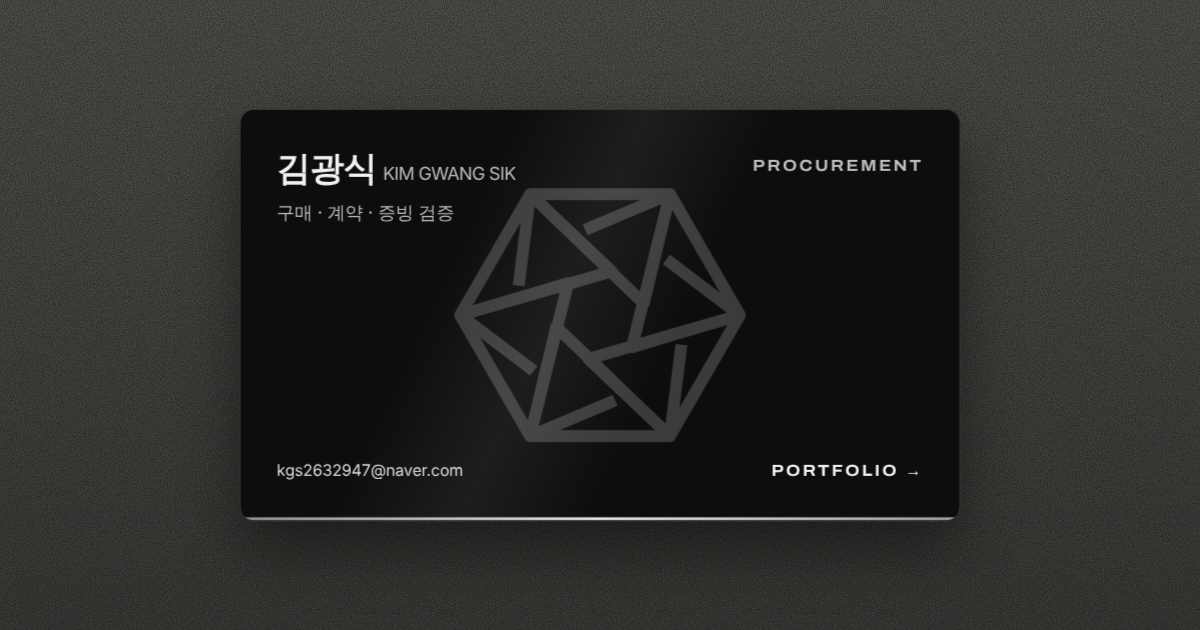
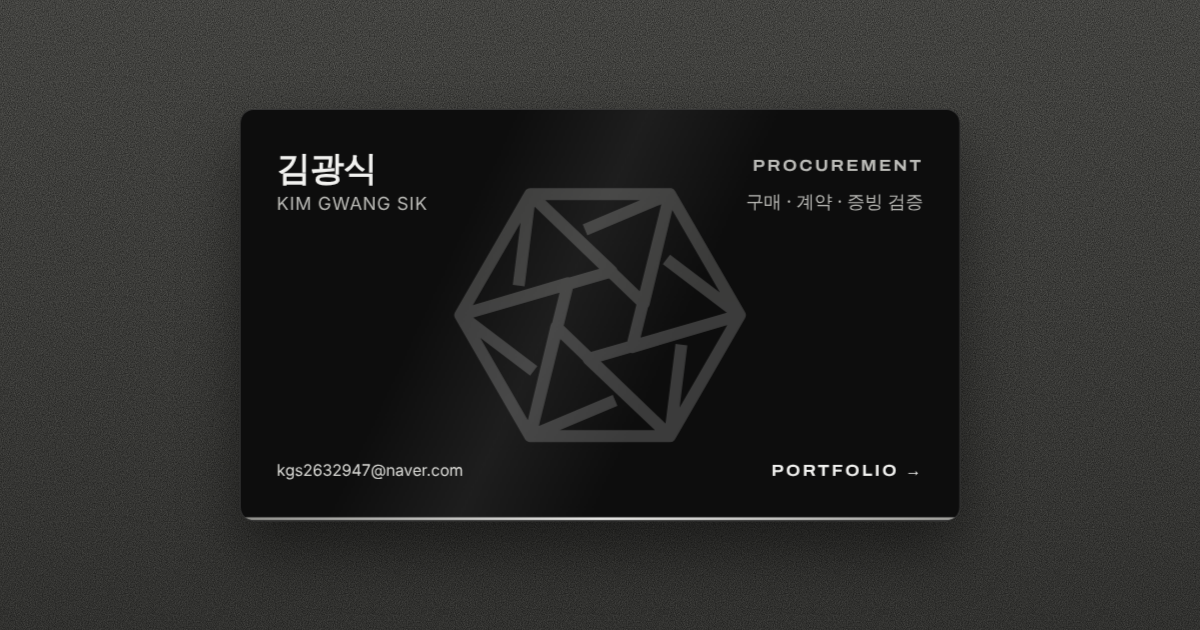
명함 배치 변경: 한글 이름 아래 영문명, PROCUREMENT 아래 직무 라벨, 미리보기 이미지 갱신
Claude-Session: https://claude.ai/code/session_01GqeSUKP4pP36hjWJnXhx5C

Changed region(s): [[0.2158, 0.2413, 0.4317, 0.3619], [0.6167, 0.3016, 0.7708, 0.3317]]

diff --git a/index.html b/index.html
@@ -362,16 +362,16 @@
   .bc-front .bc-content span { font-family: var(--display); font-stretch: 125%; font-weight: 900; letter-spacing: .08em; font-size: clamp(26px, 8vw, 34px); color: #f2f2f0; }
   .bc-back .bc-content { padding: 22px 22px 20px; display: flex; flex-direction: column; justify-content: space-between; color: #f2f2f0; }
   .bc-nm { font-size: 22px; font-weight: 800; letter-spacing: -0.02em; line-height: 1.3; }
-  .bc-nm small { font-size: 13px; font-weight: 400; color: #bdbdb9; margin-left: 6px; }
-  .bc-role { font-size: 12px; color: #bdbdb9; margin-top: 4px; }
+  .bc-nm small { display: block; margin-top: 2px; font-size: 12px; font-weight: 400; letter-spacing: .04em; color: #bdbdb9; }
+  .bc-role { font-size: 12px; color: #bdbdb9; margin-top: 6px; white-space: nowrap; }
   .bc-top { display: flex; justify-content: space-between; align-items: flex-start; gap: 10px; }
-  .bc-tag { flex: none; font-family: var(--display); font-stretch: 112%; font-weight: 700; font-size: 11px; letter-spacing: .14em; color: #bdbdb9; padding-top: 6px; }
-  .bc-nm small { white-space: nowrap; }
+  .bc-job { flex: none; text-align: right; }
+  .bc-tag { font-family: var(--display); font-stretch: 112%; font-weight: 700; font-size: 11px; letter-spacing: .14em; color: #bdbdb9; padding-top: 6px; }
   .bc-bottom { display: flex; justify-content: space-between; align-items: flex-end; gap: 10px; }
   .bc-ct { font-size: 12px; line-height: 1.7; color: #dadad6; min-width: 0; }
   .bc-go { flex: none; font-family: var(--display); font-stretch: 112%; font-weight: 700; font-size: 11px; letter-spacing: .14em; white-space: nowrap; }
-  @media (max-width: 420px) { .bc-nm { font-size: 20px; } .bc-nm small { font-size: 11px; margin-left: 5px; } .bc-tag { font-size: 9.5px; letter-spacing: .1em; } }
-  @media (max-width: 360px) { .bc-nm small { display: block; margin: 2px 0 0; } .bc-ct { font-size: 11px; } .bc-go { font-size: 10px; letter-spacing: .1em; } }
+  @media (max-width: 420px) { .bc-nm { font-size: 20px; } .bc-nm small { font-size: 11px; } .bc-tag { font-size: 10px; letter-spacing: .1em; } .bc-role { font-size: 11px; } }
+  @media (max-width: 360px) { .bc-ct { font-size: 11px; } .bc-go { font-size: 10px; letter-spacing: .1em; } }
   .intro-hint { font-size: 13px; color: #e2e2de; text-align: center; }
   .intro-skip { font: inherit; font-size: 14px; font-weight: 700; color: #fff; background: transparent; border: 1px solid rgba(255,255,255,.6); border-radius: 2px; padding: 10px 20px; cursor: pointer; }
   .intro-skip:hover { background: rgba(255,255,255,.08); }
@@ -414,7 +414,7 @@
       <div class="bc-face bc-back">
         <svg class="bc-wm" viewBox="-12 -12 24 24" aria-hidden="true"><g class="emblem-g" fill="none" stroke="#f2f2f0" stroke-width=".9" stroke-linejoin="round"></g></svg>
         <div class="bc-content">
-          <div class="bc-top"><div><div class="bc-nm">김광식<small>KIM GWANG SIK</small></div><div class="bc-role">구매 · 계약 · 증빙 검증</div></div><div class="bc-tag">PROCUREMENT</div></div>
+          <div class="bc-top"><div class="bc-nm">김광식<small>KIM GWANG SIK</small></div><div class="bc-job"><div class="bc-tag">PROCUREMENT</div><div class="bc-role">구매 · 계약 · 증빙 검증</div></div></div>
           <div class="bc-bottom"><div class="bc-ct">kgs2632947@naver.com</div><div class="bc-go">PORTFOLIO →</div></div>
         </div>
         <div class="bc-shine"></div><div class="bc-edge"></div>
